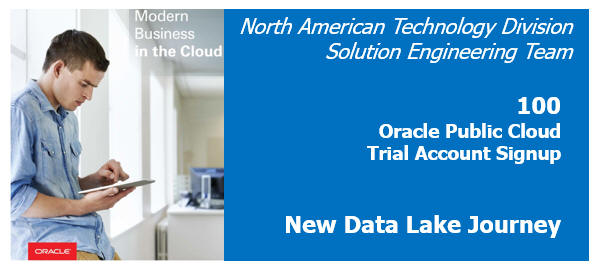
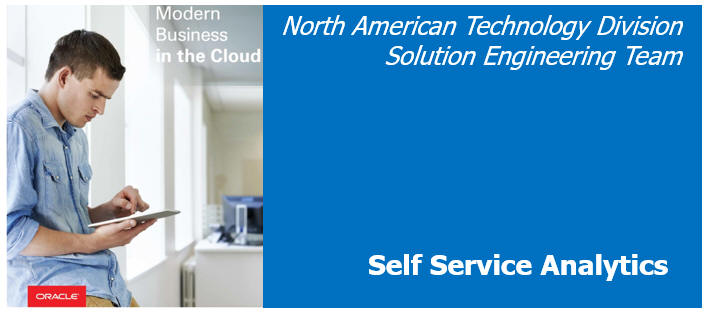
cosmetic changes for SelfServiceAnalytics

Changed region(s): [[0.0, 0.0, 1.0, 0.9891], [0.0, 0.1455, 0.0299, 0.2036]]

diff --git a/workshops/journey1-self-service-bi/README.md b/workshops/journey1-self-service-bi/README.md
@@ -1,87 +1,42 @@
+![](images/100/100.JPG)  
 
-# Big Data Journey: Self-Service BI Workshop
-Oracle offers a set of Big Data Journeys to help users get started using Oracle Cloud services with a purpose. This particular journey is designed to show you techniques you can use to easily build your own Business Intelligence environment.
+Updated: September 14, 2017 for BDCS-CE Version 17.3.5-20
 
-![](https://cdn.app.compendium.com/uploads/user/e7c690e8-6ff9-102a-ac6d-e4aebca50425/f4a5b21d-66fa-4885-92bf-c4e81c06d916/Image/55d948c4e07007e169299a02b4dfe6db/construction.png)
-+ This journey (Self Service BI) is under construction and a new version is in the works.  The instructions currently listed below may be **inaccurate** or **incomplete**.
+    
+
+# Introduction
+
+In this workshop, you will learn how to use **Oracle Data Visualization Desktop** to explore and visualize the data within the **Oracle Big Data Cloud Service - Compute Edition (BDCS-CE)**.
+
+# How this workshop is organized
+
+This journey workshop builds upon the New Data Lake journey.
+
+As such, this workshop will re-use parts of the New Data Lake journey.  Specifically, it will re-use Lab100, Lab200 and Lab300 from the New Data Lake journey. You will also need to review the setup in the xtra Connecting DV Desktop and Hive lab.
+
+Please 
+
+**Mandatory Steps**
+
++ Navigate to the New Data Lake Journey at [https://oracle.github.io/learning-library/workshops/journey2-new-data-lake/](https://oracle.github.io/learning-library/workshops/journey2-new-data-lake/) 
++ Complete New Data Lake Lab 100 "Start Here - Provisioning"
++ Complete New Data Lake Lab 200 "Getting to know BDCS-CE"
+
+Once you have completed Lab 100 and LAB 200 from the New Data Lake Journey, you can proceed to the **SelfServeBI Exploring CitiBike data with DVD** notebook (should be pre-loaded) in your BDCS-CE environment. In the notebook, do the "Working with CitiBike Data Off Line" exercises.
 
 
-![](images/snap0012064.jpg) 
+**Optional Steps** - If you want to connect live from DVD to BDCS-CE
++ Complete New Data Lake Lab xtra: Connecting with DV Desktop and Hive
++ Complete New Data Lake Lab xtra: Connecting with DV Desktop and Spark
 
-
-
-You will learn how to use Oracle Integration Cloud Service (a lightweight integration solution) to allow business analysts to populate an Object Storage data lake by connecting and mining cloud applications. Once in the object store, you will learn how to use Oracle’s meta-data curation technologies and highly intuitive BI solutions to quickly create turn-key analytics that drive business value.
-
-
-![](images/500/DemoLiveMap.gif) 
-
-## Goals
-
- - Get comfortable with Oracle's public cloud services
- - Learn a repeatable way to integrate cloud data sources and build reports
- - See techniques and patterns other organizations are using to enable their business users
-
-
-## To learn more
- - [Big Data Cloud Service - Compute Edition (BDCS-CE)](https://cloud.oracle.com/big-data-compute-edition)
- - [Event Hub Cloud Service (OEHCS)](https://cloud.oracle.com/en_US/event-hub)
- - [Storage Cloud Service Object Store](https://cloud.oracle.com/en_US/storage)
-
-      
-## How to View the Lab Guides
-
-- The Labguides are best viewed using the Workshop's [GitHub Pages Website URL](https://oracle.github.io/learning-library/workshops/journey1-self-service-bi/) 
-
-- Once you are viewing the Workshop's GitHub Pages website, you can see a list of Lab Guides at any time by clicking on the **Menu Icon**
-
-    ![](images/WorkshopMenu.png)  
-
-- To log issues and view the Lab Guide source, go to the [github oracle](https://github.com/oracle/learning-library/tree/master/workshops/journey1-self-service-bi) repository.
+Once you have setup the connectivity between DVD and Hive/Spark, you can work on the "Working with CitiBike Data Using Spark" exercise in the **SelfServeBI Exploring CitiBike data with DVD** notebook.
 
 
 
+# Want to Learn More?
+
+- [Data Visualization Desktop](https://www.oracle.com/solutions/business-analytics/data-visualization.html)
+
+- [DVD Demos](https://www.youtube.com/user/OracleBITechDemos)
 
 
-
-## Workshop Details
-
-**Reference the following Lab Guides by opening their Documentation Files:**
-
-
-
-
-## Lab 100:  Visualize Data with Oracle Data Visualization Desktop
-
-**Documenation**: [LabGuide100StartHere.md](LabGuide100StartHere.md)
-
-**Objectives**:
-
-- Download and Install Oracle Data Visualization Desktop (DVD)
-- Connect DVD to Oracle Database as a Service
-- Visualize Citibike data
-
-
-
-
-# Other labs (under construction)
-
-## Lab 200: (DRAFT) Provisioning Integration Cloud Service and Connecting to Twitter
-
-**Documenation**: [LabGuide200.md](LabGuide200.md)
-
-**Objectives**:
-
-- Provision Oracle Integration Cloud Service (ICS)
-- Register ICS as an application at Twitter.com
-- Configure ICS to connect to Twitter.com
-- Use ICS to deliver Twitter.com data to Oracle Storage Cloud Object Store
-
-## Lab 300: (DRAFT) Massaging data with Oracle Big Data Preparation Cloud Service
-
-**Documenation**: [LabGuide300.md](LabGuide300.md)
-
-**Objectives**:
-
-- Provision Oracle Big Data Preparation Cloud Service
-- Prepare a dataset containing Twitter data
-- Store revised data in Oracle Database as a Service
